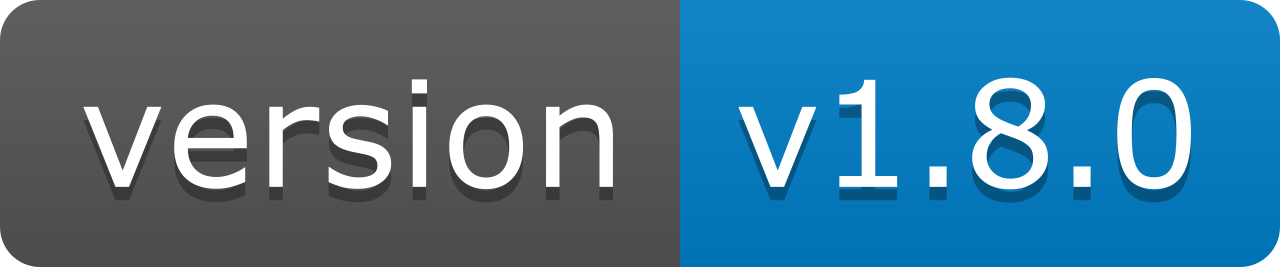
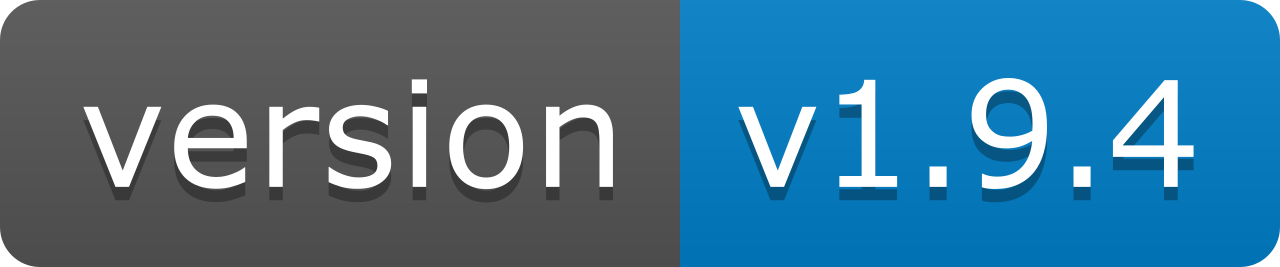
fix: version badge

Changed region(s): [[0.75, 0.2697, 0.9375, 0.779]]

diff --git a/CHANGELOG.md b/CHANGELOG.md
@@ -1,3 +1,7 @@
+## [1.9.5]
+
+- updated the version badge
+
 ## [1.9.4]
 
 - Dynamic References to selectors is not considered for diagnostics - Partially fixes [#86](https://github.com/Viijay-Kr/react-ts-css/issues/86)
